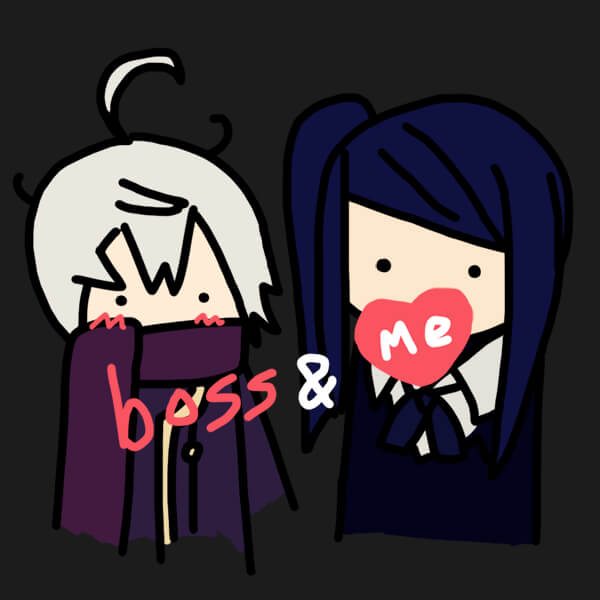
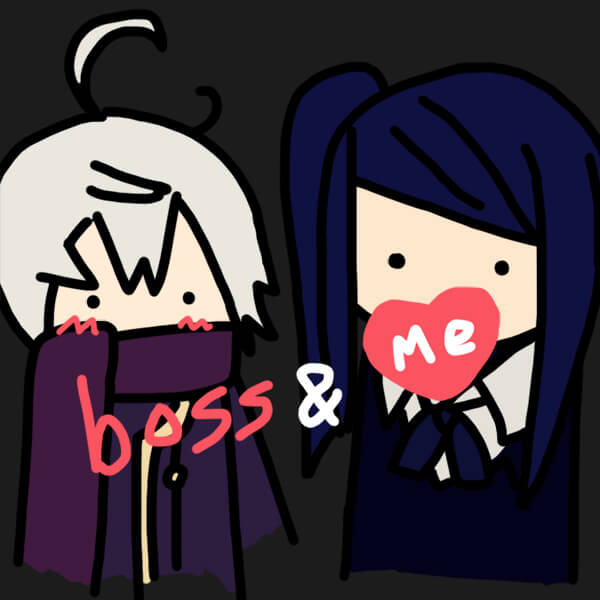
。

diff --git a/blog/笔记/社会问题/游戏节奏/zk/18745363.html b/blog/笔记/社会问题/游戏节奏/zk/18745363.html
@@ -1,11 +1,15 @@
 ---
-layout: zk
+layout: page2
 title: 鸣潮剧情公式化节奏
 nav_text: 鸣潮剧情公式化节奏
 nav_url: <a href="/biji/game">游戏笔记</a>
 permalink: i/18745363
 ---
-<!--关键词：鸣潮公式化 鸣潮心魔-->
+<!--关键词：鸣潮公式化 鸣潮心魔节奏-->
+2026年8月，«鸣潮»被指剧情公式化、角色用完就丢、女角色刚认识不久就投怀送抱，国内外都爆发相关舆论。鸣潮社区反击：按照这么说，那«西游记»也是公式化剧情、«水浒传»角色用完就丢、«红楼梦»只会搞ML、«三国演义»龙傲天；[刃性哥哥]：「抛开内容谈框架，谁能做到不公式？你把库洛当成神了？」
+
+<hr>
+
 <h3>网友总结</h3>
 
 <blockquote>
@@ -68,13 +72,15 @@ permalink: i/18745363
 <blockquote>
     绝区零心魔：主角老师心魔，星见雅刀魂心魔，伊芙琳雇佣兵心魔，珂蕾妲父亲心魔，悠真疾病实验心魔，安比人造人心魔，薇薇安诅咒心魔，雨果原生家庭心魔，扳机同伴心魔，席德席德心魔，柚叶害死人心魔，仪玄姐姐心魔，叶瞬光剑魂心魔，希希芙流浪心魔，以德海里父母心魔，般岳不是人心魔，照被抛弃心魔，真斗变强心魔，爱丽丝胆小心魔。
 </blockquote>
-<span class='zhushi'>«绝区零»之前剧情确实一般，也有公式化的问题，但不是体现在“心魔”上，这里显然是为了洗«鸣潮»硬凑的，只要是有回忆、有执念、反派操纵之类的都被说成是“心魔”了，并不是«鸣潮»那种分裂出一个人格的“心魔”。</span><br>
-
+<div class='zhushi'>
+«绝区零»之前剧情确实一般，也有公式化的问题，但不是体现在“心魔”上，这里显然是为了洗«鸣潮»硬凑的，只要是有回忆、有执念、反派操纵之类的都被说成是“心魔”了，并不是«鸣潮»那种分裂出一个人格的“心魔”。<br>
 <br>
 
-<blockquote>
-    原神才是真正的心魔神游：（配图：）雷电影和雷电真、纳西妲和大慈树王、芙宁娜和芙卡洛斯。
-</blockquote>
+补充：两个月后他们还在试着从米游里找“心魔”带节奏，发展到只要是有两个角色长得像就算“心魔”了，哪怕是姐妹或者同一人的两种形态……<br>
+这里简单说一下，«鸣潮»总是同样的故事流程（前文有记录），中间要塑造角色了，就让角色过去的痛苦具象化成一个和角色长得一样的“心魔”出现在角色面前，然后因为主角的出现，角色就忽然想开了，“心魔”问题就解决了。<br>
+所以«鸣潮»的问题不是角色有“心魔”，而是“公式化心魔”，每次都一样的流程，而且太简单粗暴了。<br>
+以«绝区零»为例，从字面含义来讲，确实也都可以说是“心魔”，但其实就是各自的过去或是执念，各种作品里角色都会有这种“心魔”，但并不是每次都具象化一个和角色长得一模一样的“心魔”，然后角色几句话就能解开心结。
+</div>
 
 <br>
 
@@ -98,3 +104,32 @@ permalink: i/18745363
     <li>人也是公式化的，起床、吃饭、工作、玩手机、睡觉，玩游戏能没有公式吗？</li>
     <li>原神找妹妹找哥哥，鸣潮去各种地方找老婆救老婆，都一样。</li>
 </ul></blockquote>
+
+<hr>
+
+<h3>后续</h3>
+
+<blockquote>
+    （2026年9月）«原神»才是真正的心魔神游：（配图：）<ul>
+        <li>雷电影和雷电真 <span class='zhushi'>俩人是姐妹</span></li>
+        <li>纳西妲和大慈树王 <span class='zhushi'>纳西妲是大慈树王从世界树上折下的纯净枝杈所化</span></li>
+        <li>芙宁娜和芙卡洛斯 <span class='zhushi'>芙卡洛斯将自己的神格和人格分离开，人格部分就是芙宁娜</span></li>
+    </ul>
+</blockquote>
+
+<br>
+
+<blockquote>
+    （2026年10月）«崩坏3»才是真正的心魔神游：（配图：）<ul>
+        <li>琪亚娜和空之律者 <span class='zhushi'>同一个人格分裂出的两面</span></li>
+        <li>布洛妮娅 <span class='zhushi'>配图是本人和被敌人操纵的形态</span></li>
+        <li>芽衣和雷之律者 <span class='zhushi'>芽衣被植入征服宝石，变成了雷之律者</span></li>
+        <li>浮华和识之律者 <span class='zhushi'>在浮华身体里诞生的新意识，因为继承了浮华的记忆，一开始误以为自己就是浮华</span></li>
+        <li>爱莉希雅和侵蚀之律者 <span class='zhushi'>敌人模仿爱莉希雅的外形</span></li>
+        <li>凯文 <span class='zhushi'>配图是本人和解锁力量的形态</span></li>
+        <li>维尔薇 <span class='zhushi'>人格分裂</span></li>
+        <li>塞西莉亚和米丝忒琳 <span class='zhushi'>长得像的两个角色，剧情里都没见过面</span></li>
+        <li>奥托和虚空万藏 <span class='zhushi'>虚空万藏是一件融合了人工智能的特殊武器，借用了奥托的外貌</span></li>
+        <li>希儿 <span class='zhushi'>表人格和里人格</span></li>
+    </ul>
+</blockquote>

diff --git a/blog/私人/我的排行榜/娱乐_短片.html b/blog/私人/我的排行榜/娱乐_短片.html
@@ -22,7 +22,17 @@ permalink: pingfen/duanpian
 
 // [" +  +  +  + " , "" ,, ""],
 
-// [" +  +  +  + " , "0 " ,, "瑞克和莫蒂 2"],
+// [" +  +  +  + " , "0 " ,, "瑞克和莫蒂 3"],
+// [" +  +  +  + " , "10 瑞克大战总统" ,, "瑞克和莫蒂 3"],
+// [" +  +  +  + " , "09 贝丝的ABC" ,, "瑞克和莫蒂 3"],
+// [" +  +  +  + " , "08 莫蒂的记忆爆炸" ,, "瑞克和莫蒂 3"],
+// [" +  +  +  + " , "07 瑞城风云" ,, "瑞克和莫蒂 3"],
+// [" +  +  +  + " , "06 认知净化器" ,, "瑞克和莫蒂 3"],
+// [" +  +  +  + " , "05 旋转阴谋" ,, "瑞克和莫蒂 3"],
+// [" +  +  +  + " , "04 守护者联盟3：灭世者归来" ,, "瑞克和莫蒂 3"],
+// [" +  +  +  + " , "03 腌黄瓜瑞克" ,, "瑞克和莫蒂 3"],
+["75 + 1 + 1 + 1 + 0" , "02 疯狂瑞克与石头" ,, "瑞克和莫蒂 3"],
+["90 + 1 + 3 + 2 + 2" , "01 瑞克的救赎" ,, "瑞克和莫蒂 3"],
 ["75 + 3 + 3 + 2 + 1" , "10 鸟人的婚礼" ,, "瑞克和莫蒂 2"],
 ["65 + 1 + 2 + 2 + 0" , "09 快看谁在大清洗" ,, "瑞克和莫蒂 2"],
 ["65 + 2 + 1 + 1 + 2" , "08 次元电视2：命运诱惑 " ,, "瑞克和莫蒂 2"],
@@ -128,6 +138,11 @@ let 额外={
 
 "瑞克和莫蒂 1":"瑞克和莫蒂",
 "瑞克和莫蒂 2":"瑞克和莫蒂",
+"瑞克和莫蒂 3":"瑞克和莫蒂",
+"瑞克和莫蒂 4":"瑞克和莫蒂",
+"瑞克和莫蒂 5":"瑞克和莫蒂",
+"瑞克和莫蒂 6":"瑞克和莫蒂",
+"瑞克和莫蒂 7":"瑞克和莫蒂",
 }
 for(let i=0;data.length>i;i++){
     if(data[i][1].indexOf("／")!=-1){

diff --git a/js/s.html b/js/s.html
@@ -416,7 +416,7 @@ let d={
 "备忘":[p.异梦+"博客/备忘.html"],
 "油管":"／YOUTUBE","YOTUBE":"／YOUTUBE",
 "YOUTUBE":["https://www.youtube.com","https://www.youtube.com/results?search_query=【】"],
-"酒仙":[p.目录+"酒仙笔记.html"],
+"酒仙":[(本地)?p.目录+"酒仙笔记.html":p.博客+"/jiuxian"],
 "酒仙笔记":"／酒仙",
 "点评":["选择","／html／编辑／"+p.yucimao+"blog/公告/关于/其他_点评猫球2.html","／在线／"+p.博客+"dianping","／库／https://console.leancloud.cn/apps/mCBnOpmsOyb6hrMiiKQ3kuRu-gzGzoHsz/storage/data/df"],"打分":"／点评",
 "百度识图":["https://graph.baidu.com/pcpage/index"],
@@ -463,10 +463,7 @@ let d={
 "DEEPL":["https://www.deepl.com/translator",,"更适合国人习惯的翻译网站"],
 "PIXIV":["https://pixiv.net","https://www.pixiv.net/tags/【】","插画"],
 "PORNHUB":["https://www.pornhub.com","https://www.pornhub.com/video/search?search=【】","成人视频"],
-
 "小翻译器":[p.博客+"app/xfyq",p.博客+"app/xfyq?【】"],
-
-
 "B站收藏":["https://space.bilibili.com/515330/favlist"],"B站_收藏":"／B站收藏",
 "百度指数":["https://index.baidu.com/v2/index.html#/"],
 "UID":["https://space.bilibili.com/515330","https://space.bilibili.com/【】"],

diff --git a/blog/笔记/社会问题/游戏节奏/zk/19162118.html b/blog/笔记/社会问题/游戏节奏/zk/19162118.html
@@ -1,0 +1,13 @@
+---
+layout: zk
+title: 19162118
+nav_text: 19162118
+nav_url: <a href="/biji/game">游戏笔记</a>
+permalink: i/19162118
+---
+月亮计划的«废墟图书馆»的主题曲«String Theocracy»，发布于2020年。<br>
+歌词：「Maybe we're all cold machines, Stuffed in the human skin, With human sins.（也许我们每个人其实都是冰冷的机器，填充在人形的皮肤里，犯着人形的罪恶。）」<br>
+<br>
+
+«战双帕弥什»版本“浮英枕梦行”，上线于2023年。<br>
+台词：「也许我们每个人都是冰冷的机器，只不过被填充在了人形的皮囊之中，同样犯着人的罪恶。」<br>
